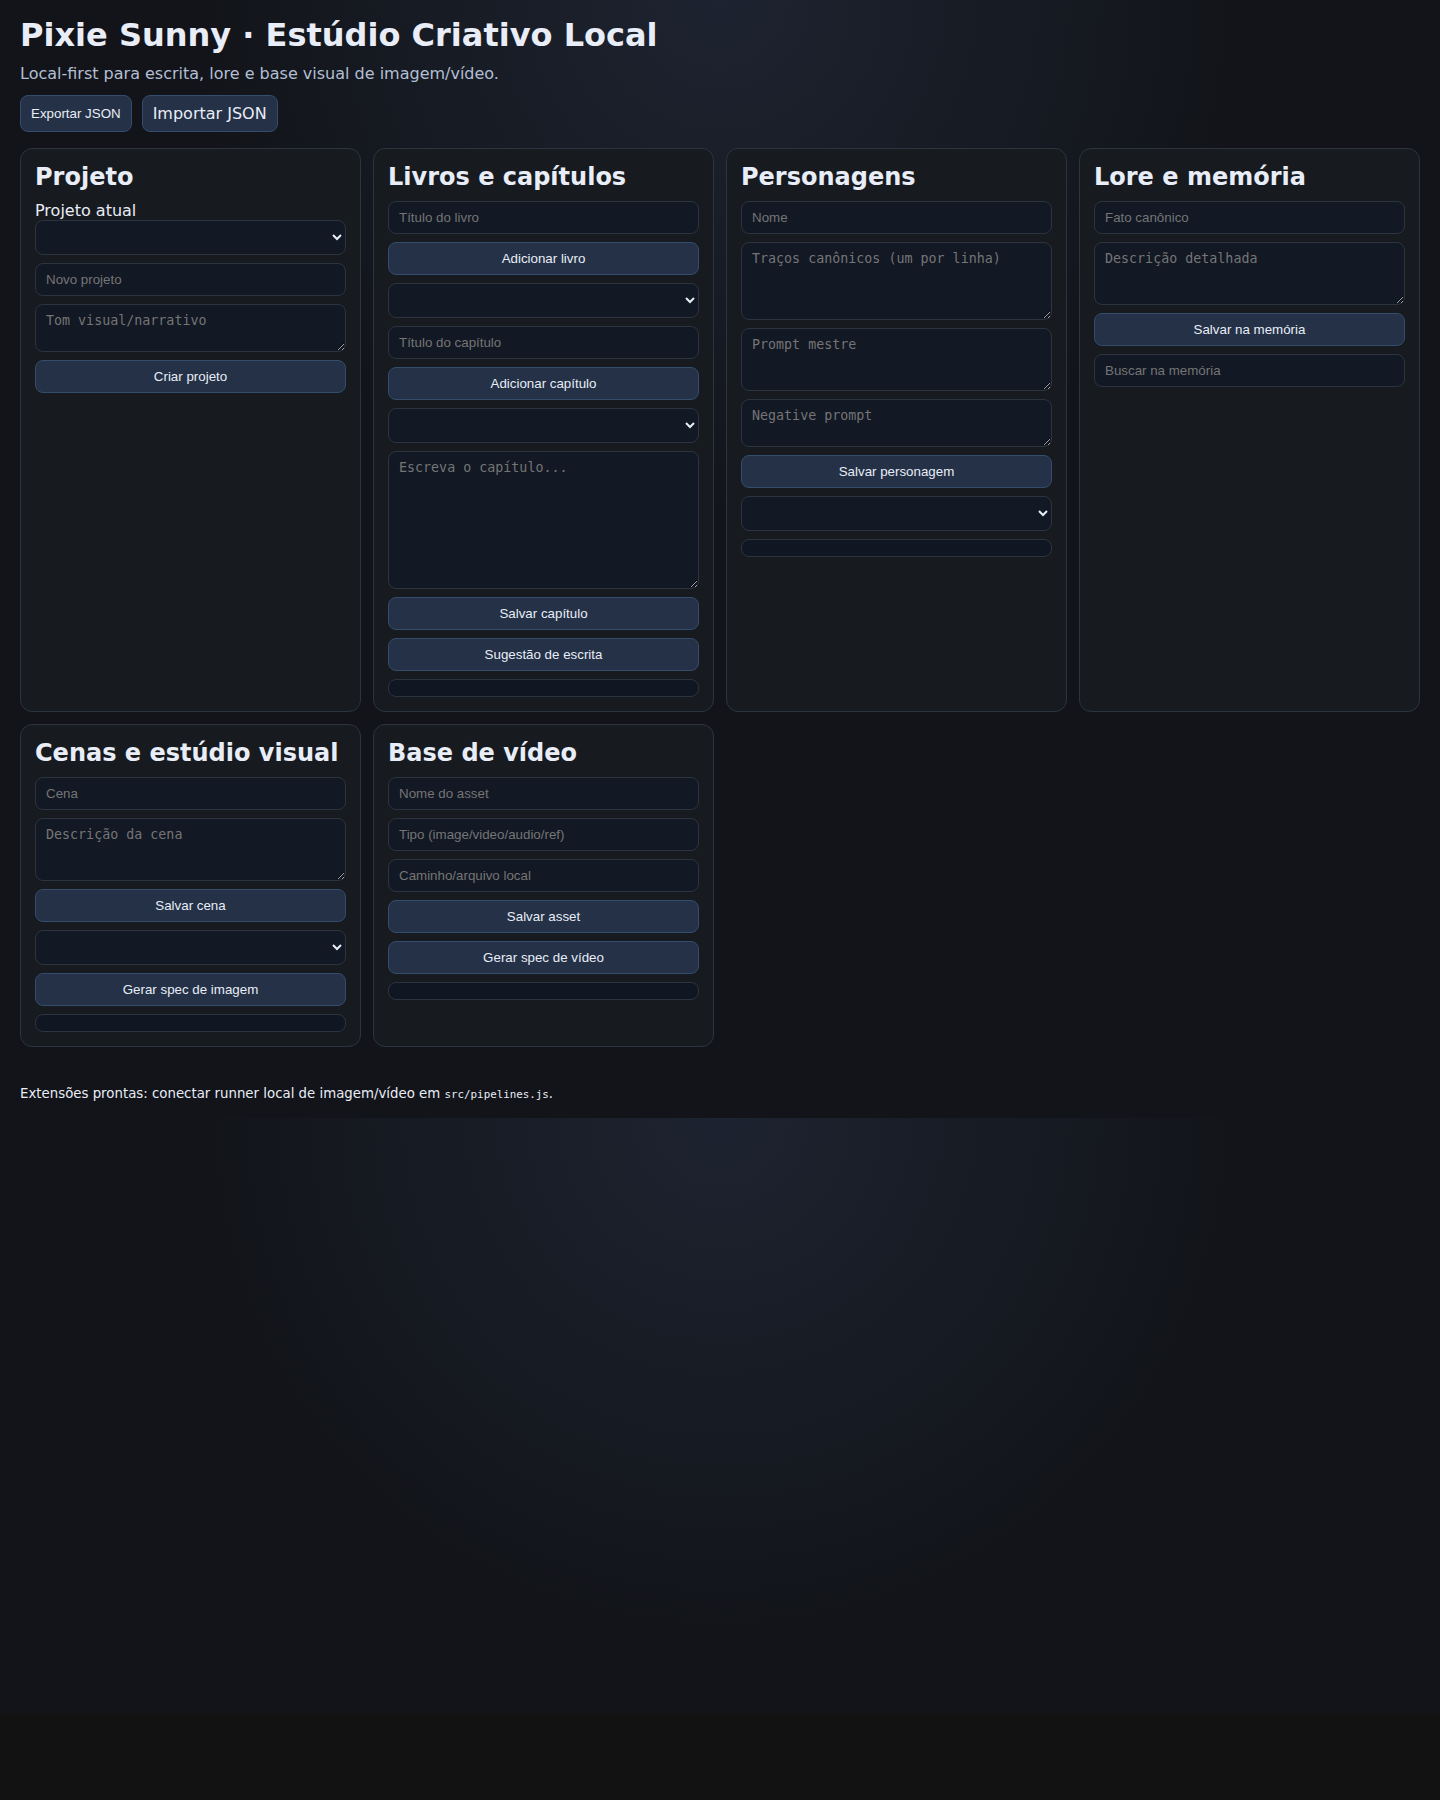
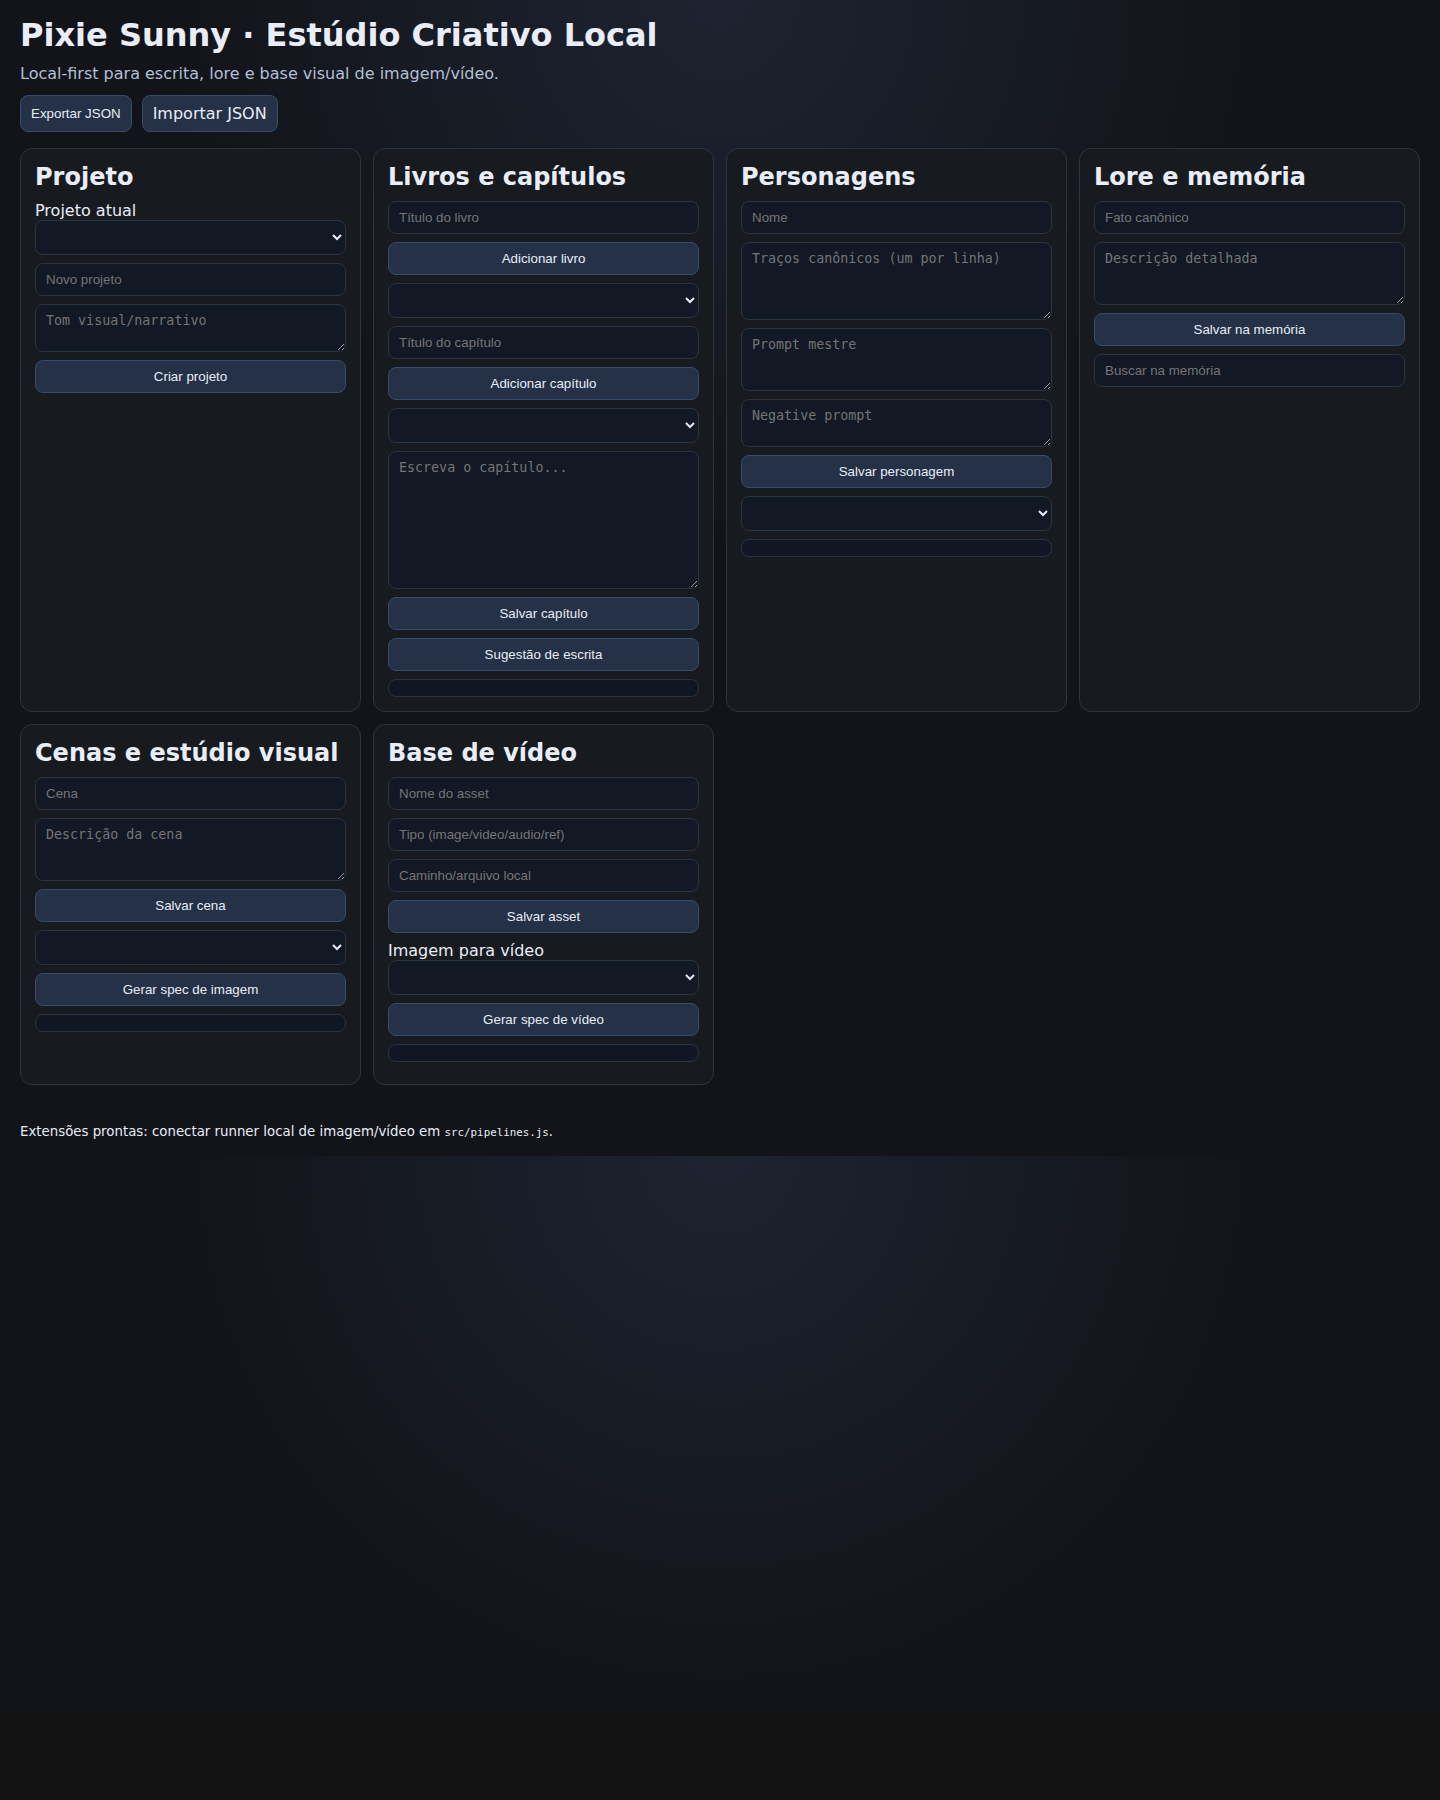
fix: refine visual specs and video asset selection
Agent-Logs-Url: https://github.com/Atticav/Pixie-Sunny/sessions/44c8fccb-c68c-4b30-8fbe-6921f04cea4d

Changed region(s): [[0.0312, 0.4978, 0.5, 0.6533]]

diff --git a/src/app.js b/src/app.js
@@ -21,6 +21,7 @@ const refs = {
   chapterSelect: $('chapterSelect'),
   characterSelect: $('characterSelect'),
   sceneSelect: $('sceneSelect'),
+  videoImageAssetSelect: $('videoImageAssetSelect'),
   loreList: $('loreList'),
   assetList: $('assetList')
 };
@@ -72,11 +73,15 @@ const renderLore = () => {
 
 const renderAssets = () => {
   refs.assetList.innerHTML = '';
-  projectAssets().forEach((asset) => {
+  const assets = projectAssets();
+  assets.forEach((asset) => {
     const li = document.createElement('li');
     li.textContent = `${asset.type} · ${asset.name} · ${asset.path}`;
     refs.assetList.append(li);
   });
+
+  const imageAssets = assets.filter((asset) => asset.type.toLowerCase() === 'image');
+  renderOptions(refs.videoImageAssetSelect, imageAssets, refs.videoImageAssetSelect.value || imageAssets[0]?.id);
 };
 
 const render = () => {
@@ -255,7 +260,7 @@ $('saveAssetBtn').addEventListener('click', () => {
 
 $('generateVideoSpecBtn').addEventListener('click', () => {
   const scene = projectScenes().find((item) => item.id === refs.sceneSelect.value);
-  const imageAsset = projectAssets().find((asset) => asset.type.toLowerCase() === 'image');
+  const imageAsset = projectAssets().find((asset) => asset.id === refs.videoImageAssetSelect.value);
   const spec = buildVideoSpec({
     scene,
     imageAsset,
@@ -284,7 +289,7 @@ $('importDataInput').addEventListener('change', async (event) => {
     state = { ...state, ...imported };
     persist();
   } catch {
-    alert('JSON inválido.');
+    alert('Erro ao importar: arquivo JSON inválido. Verifique o formato do arquivo.');
   }
 });
 

diff --git a/src/assistant.js b/src/assistant.js
@@ -27,7 +27,7 @@ export const buildSceneSpec = ({ projectTone, scene, characters }) => ({
     character: character.name,
     lockTraits: character.canonTraits
   })),
-  prompt: `Cena "${scene?.title}": ${scene?.description}. Estilo realista cinematográfico, textura natural de pele e tecido, iluminação dramática coerente com floresta enevoada.`,
+  prompt: `Cena "${scene?.title}": ${scene?.description}. Estilo realista cinematográfico, textura natural de pele e tecido, iluminação dramática coerente com o cenário descrito.`,
   negativePrompt: 'anime, cartoon, proporções irreais, maquiagem glamour moderna, olhos inconsistentes, figurino moderno'
 });
 

diff --git a/index.html b/index.html
@@ -91,6 +91,9 @@
           <input id="assetType" placeholder="Tipo (image/video/audio/ref)" />
           <input id="assetPath" placeholder="Caminho/arquivo local" />
           <button id="saveAssetBtn">Salvar asset</button>
+          <label>Imagem para vídeo
+            <select id="videoImageAssetSelect"></select>
+          </label>
           <button id="generateVideoSpecBtn">Gerar spec de vídeo</button>
           <pre id="videoSpec"></pre>
           <ul id="assetList"></ul>
